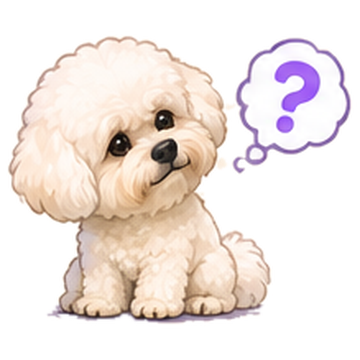
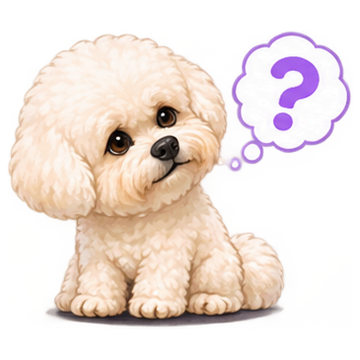
Use Mike's clean separate render for faces, poses and tile head
Replaces the character-sheet cuts (flat-edged faces, rough poses) with
design/toby-expressions.png, which has a transparent background and space
around each piece. Tile head keeps its baked-in shadow.

Claude-Session: https://claude.ai/code/session_01X2DzHikvmZdyBSqugt2kme

Changed region(s): [[0.0, 0.0611, 0.9778, 0.9167], [0.1222, 0.4583, 0.1528, 0.4889]]

diff --git a/sw.js b/sw.js
@@ -1,5 +1,5 @@
 // Sudogku service worker: works offline once installed.
-const CACHE = 'sudogku-toby-v16';
+const CACHE = 'sudogku-toby-v17';
 const FILES = ['./', 'index.html', 'engine.js', 'manifest.webmanifest', 'icon-180.png', 'icon-192.png', 'icon-512.png', 'logo.png', 'toby-home.png', 'toby/tile.png', 'toby/tile-head.png', 'toby/face-happy.png', 'toby/face-focused.png', 'toby/face-excited.png', 'toby/face-sorry.png', 'toby/face-cheeky.png', 'toby/act-sniff.png', 'toby/act-hint.png', 'toby/act-complete.png', 'toby/act-oops.png'];
 self.addEventListener('install', e => { e.waitUntil(caches.open(CACHE).then(c => c.addAll(FILES))); self.skipWaiting(); });
 self.addEventListener('activate', e => {

diff --git a/CLAUDE_HANDOFF.md b/CLAUDE_HANDOFF.md
@@ -9,7 +9,7 @@ Ad-free, offline, dog-themed take on Meowdoku. Installable PWA. Single-file UI (
 - Three golden bones. Out of bones: Try again, or Keep going with one extra bone for half points.
 - **Starter dog only when needed** (like Meowdoku): a puzzle with an easy opening (a one-square colour, or a colour sitting in a single row/column) starts blank; otherwise it gets one locked starter dog. About 1 level in 10 gets one. Difficulty is graded from the actual starting board.
 - One long level track. **Daily puzzle** unlocks after level 20 (8×8, Hard), with streak and best time.
-- **Mascot is Toby** (Mike's dog), from Mike's character sheet. Each sheet item is used where the sheet says (all in `toby/`, transparent PNGs):
+- **Mascot is Toby** (Mike's dog), from Mike's character sheet. Each sheet item is used where the sheet says (all in `toby/`, transparent PNGs). The expressions, action poses and tile head now come from Mike's clean separate render `design/toby-expressions.png` (transparent, row 1: sniff, hint, oops, happy, focused; row 2: excited, sorry, cheeky, tile head):
   - In-Game Icon (Tile) → `tile-head.png` (Toby's head lifted off the icon's lilac square): every placed dog, sitting on the square's own region colour.
   - Colour key above the board: each colour is a Toby-head silhouette (masked from `face-happy.png`) filled with that colour; when the colour has its dog it becomes the solid Happy face.
   - App / Game Icon → `icon-180/192/512.png`.
@@ -36,7 +36,7 @@ Ad-free, offline, dog-themed take on Meowdoku. Installable PWA. Single-file UI (
 - UI checked in desktop Chrome with simulated touch at 390×844 and 375×667. **Still needs a check on a real iPhone in Safari** (double-tap timing, drag, safe areas, offline update).
 
 ## When changing files
-Bump `CACHE` in `sw.js` (currently `sudogku-toby-v16`) so installed copies update.
+Bump `CACHE` in `sw.js` (currently `sudogku-toby-v17`) so installed copies update.
 
 ## Performance notes (iPhone)
 - Avoid CSS `filter` (drop-shadow etc.) on anything that animates or repeats on the board; Safari redraws it every frame. Shadows are baked into the art (`toby/tile-head.png`) and into the ✕ symbol.

diff --git a/CLAUDE.md b/CLAUDE.md
@@ -3,7 +3,7 @@
 Read `CLAUDE_HANDOFF.md` first: it lists Mike's product decisions (tool limits, controls, mistakes, levels, difficulty mix, where each Toby image is used). Don't undo those decisions without Mike asking.
 
 - Keep the puzzle engine (`engine.js`) and its tests passing: `node tests/engine.test.js`.
-- Toby artwork comes only from Mike's designs in `design/` (`toby-character-sheet.png`, `home-screen.png`, `toby-celebrate.png`). Use the sheet's own assignments (tile icon for placed dogs, app icon, expressions, action poses). Don't invent or substitute other dog art.
+- Toby artwork comes only from Mike's designs in `design/` (`toby-character-sheet.png`, `home-screen.png`, `toby-celebrate.png`, `toby-expressions.png`). Use the sheet's own assignments (tile icon for placed dogs, app icon, expressions, action poses). Don't invent or substitute other dog art.
 - After changing any shipped file, bump `CACHE` in `sw.js` and add new files to its `FILES` list.
 - The site is served from the repo root on GitHub Pages; keep paths relative.
 - Test touch controls at phone sizes (390×844 and 375×667): tap = ✕, tap again = clear, double-tap = dog, drag = many ✕.
